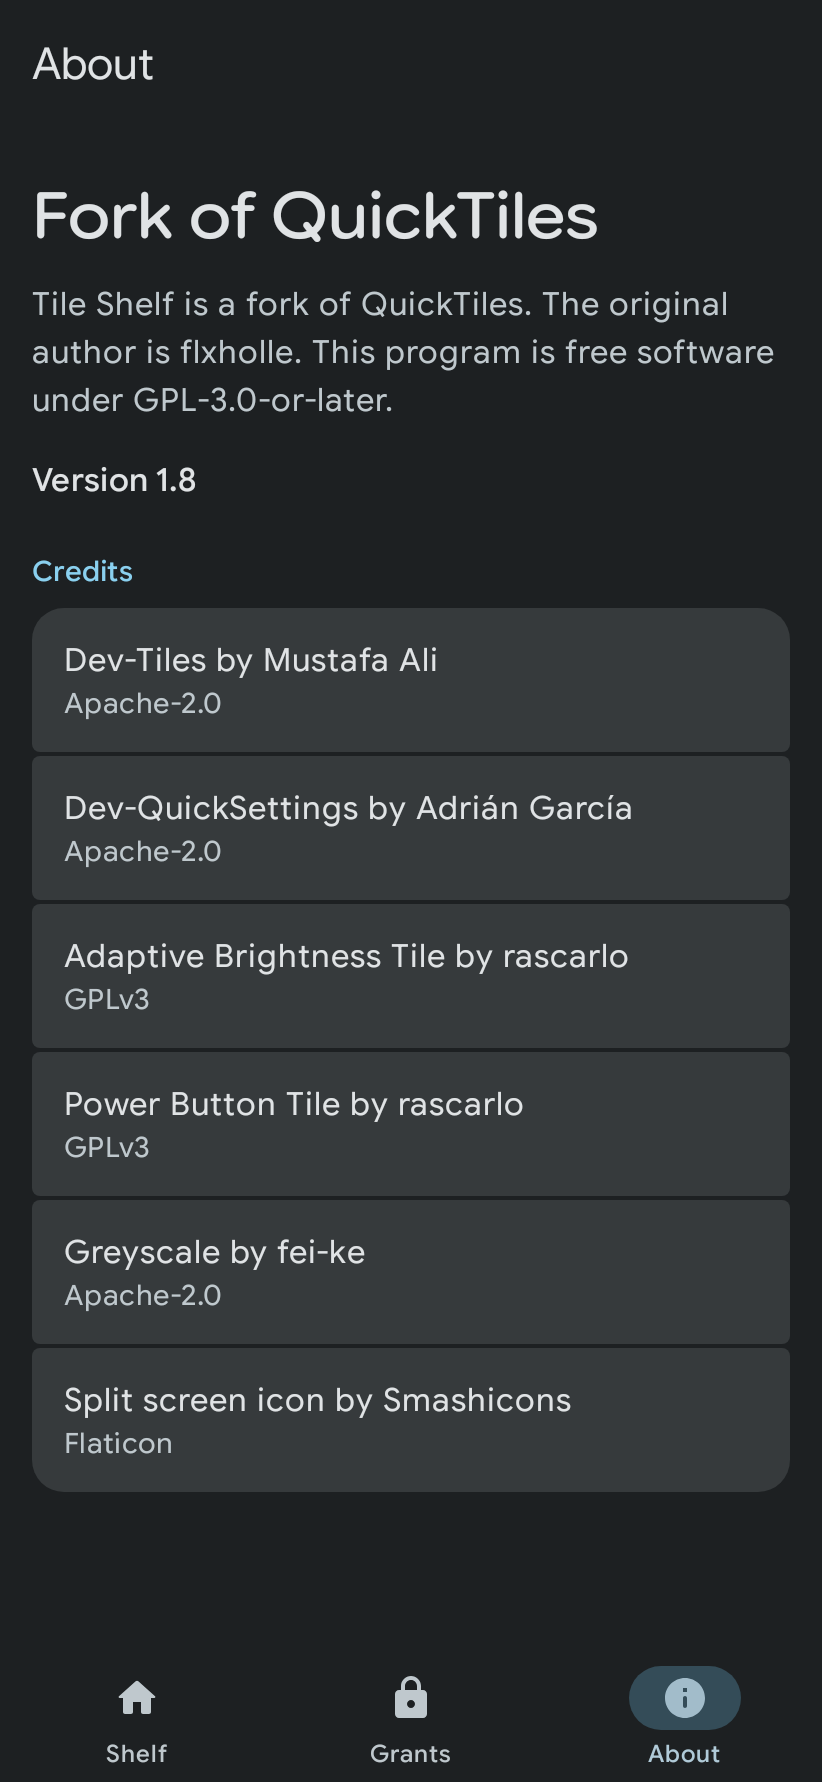
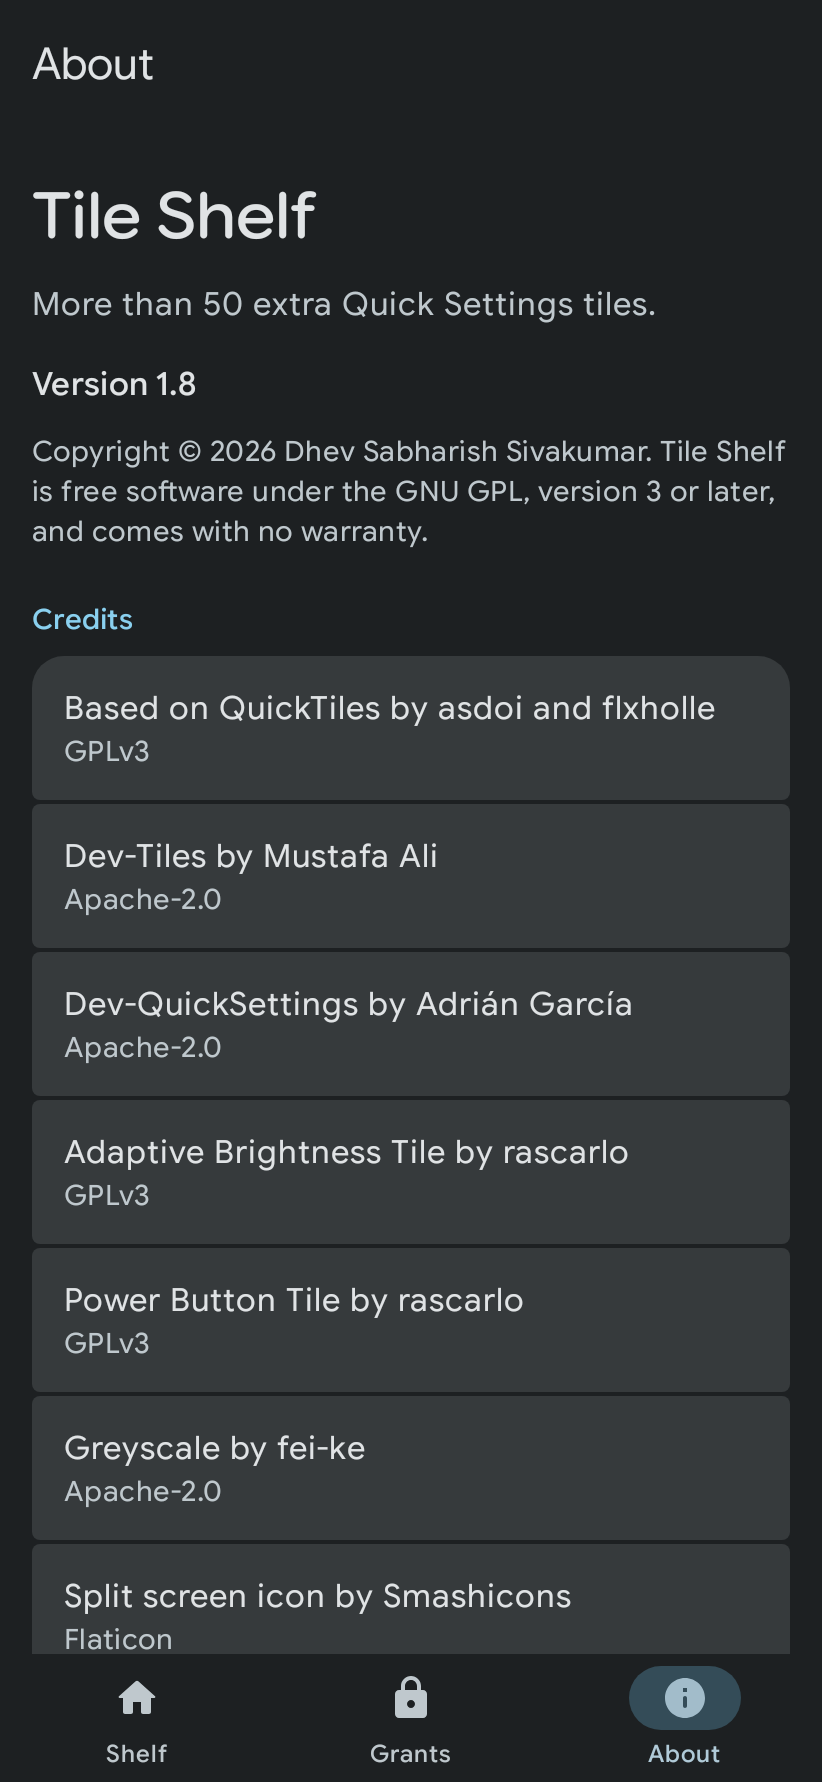
Lead the README and About screen with Tile Shelf, credit QuickTiles below
NOTICE records the copyright, the QuickTiles origin and what changed
from version 1.8. The About screen shows the copyright and GPL notice
and lists QuickTiles by asdoi and flxholle as the first credit.

Changed region(s): [[0.0304, 0.0926, 0.9732, 0.9259], [0.4866, 0.7099, 0.6387, 0.7407], [0.8516, 0.4012, 0.882, 0.4321]]

diff --git a/app/src/main/java/com/tileshelf/app/ui/AboutScreen.kt b/app/src/main/java/com/tileshelf/app/ui/AboutScreen.kt
@@ -39,6 +39,7 @@ fun AboutScreen(model: AboutModel, padding: PaddingValues, actions: ScreenAction
 private fun AboutReady(model: AboutModel.Ready, padding: PaddingValues) {
     val space = MaterialTheme.spacing
     val credits = listOf(
+        stringResource(R.string.credit_quicktiles) to stringResource(R.string.credit_gplv3),
         stringResource(R.string.credit_dev_tiles) to stringResource(R.string.credit_apache),
         stringResource(R.string.credit_dev_quicksettings) to stringResource(R.string.credit_apache),
         stringResource(R.string.credit_adaptive_brightness) to stringResource(R.string.credit_gplv3),
@@ -57,11 +58,11 @@ private fun AboutReady(model: AboutModel.Ready, padding: PaddingValues) {
     ) {
         item {
             Text(
-                stringResource(R.string.about_fork_title),
+                stringResource(R.string.app_name),
                 style = MaterialTheme.typography.headlineLargeEmphasized,
             )
             Text(
-                stringResource(R.string.about_fork_body),
+                stringResource(R.string.about_tagline),
                 style = MaterialTheme.typography.bodyLarge,
                 color = MaterialTheme.colorScheme.onSurfaceVariant,
                 modifier = Modifier.padding(top = space.space150),
@@ -69,7 +70,13 @@ private fun AboutReady(model: AboutModel.Ready, padding: PaddingValues) {
             Text(
                 stringResource(R.string.about_version, model.versionName),
                 style = MaterialTheme.typography.titleMedium,
-                modifier = Modifier.padding(top = space.space200, bottom = space.space300),
+                modifier = Modifier.padding(top = space.space200),
+            )
+            Text(
+                stringResource(R.string.about_legal),
+                style = MaterialTheme.typography.bodyMedium,
+                color = MaterialTheme.colorScheme.onSurfaceVariant,
+                modifier = Modifier.padding(top = space.space150, bottom = space.space300),
             )
             Text(
                 stringResource(R.string.credits),

diff --git a/README.md b/README.md
@@ -1,30 +1,21 @@
 # Tile Shelf
 
-Tile Shelf is a fork of [QuickTiles](https://gitlab.com/flxholle/quick-tiles) by flxholle, based on version 1.8 (versionCode 18, `com.asdoi.quicktiles`). Most of the tile code is theirs and the full upstream history is kept in this repository. This fork adds quick settings tiles on Android and installs beside the original app. The launcher name is Tile Shelf. The application id is `com.tileshelf.app`. There are no ads, no analytics, and no advertising id.
+More than 50 extra Quick Settings tiles for Android 7 and later: media controls, shortcuts to settings pages, screen and sound toggles, developer switches, and a tile that clears the clipboard.
 
-This is not the official QuickTiles app and is not affiliated with its author. This program is free software under GPL-3.0-or-later. See `LICENSE`.
+<p>
+<img src="app/screenshots/matrix/light/shelf.png" alt="The tile shelf in light theme" width="260">
+<img src="app/screenshots/matrix/dark/shelf.png" alt="The tile shelf in dark theme" width="260">
+</p>
 
-The screens use Material 3 Expressive (`androidx.compose.material3:material3:1.5.0-beta02`). The new tile in this version is Clear clipboard. A caffeine tile, a sync tile, and home-screen widgets are not in this version.
+Tile Shelf has no ads, no analytics and no advertising id. It does not use root.
 
-## Build
+## Adding a tile
 
-You need JDK 21 and Android SDK platform 37.
-
-`compileSdk` is 37 because `androidx.compose.material3:material3:1.5.0-beta02` and the Compose 1.12 libraries it pulls require compileSdk 37. `checkDebugAarMetadata` fails on compileSdk 36. `targetSdk` stays 36. `minSdk` stays 24, so the debug APK still installs on Android 15, including a OnePlus 13R.
-
-```sh
-./gradlew :app:assembleDebug
-./gradlew :app:testDebugUnitTest
-./gradlew :app:recordRoborazziDebug
-```
-
-The debug APK is `app/build/outputs/apk/debug/app-debug.apk`. Roborazzi writes `app/screenshots/matrix/`.
-
-Turning a tile on in the app publishes it to the quick settings editor. On Android 13 and later the system then asks whether to add the tile to quick settings, and the choice is yours. On older versions, add it from the quick settings editor yourself. The app never places a tile without that confirmation.
+Turn a tile on in Tile Shelf and it appears in the Quick Settings editor. On Android 13 and later the system then asks whether to add the tile to Quick Settings, and you choose. On older versions, add it from the Quick Settings editor yourself. Tile Shelf never places a tile without your confirmation.
 
 ## Tiles
 
-Tiles with no extra grant need nothing beyond the app. Clear clipboard is one of those. It calls `ClipboardManager.clearPrimaryClip()` from the tile service on API 28 and above. On older APIs, and if that call throws, it sets an empty clip. The tile shows "Clipboard cleared" on its subtitle, or on its label below API 29. Keyboard clipboard histories, including Gboard and the OnePlus and Samsung keyboards, keep their own copies. An app cannot clear those.
+Most tiles need nothing beyond the app. Some change system settings and need a one-time permission, and a few need a permission that only adb can grant. Tile Shelf shows what each tile needs and walks you through it.
 
 | Tile | Grant |
 | --- | --- |
@@ -43,37 +34,41 @@ Tiles with no extra grant need nothing beyond the app. Clear clipboard is one of
 | Grayscale | adb `WRITE_SECURE_SETTINGS`. The row is hidden from API 30 up unless it was already on, in which case you can only turn it off. |
 | Show taps | Not offered. A stored on value can only be turned off. Writing `show_touches` throws on this targetSdk. |
 
-The adb form is:
+To grant the adb permissions, connect the phone with USB debugging on and run:
 
 ```sh
 adb shell pm grant com.tileshelf.app android.permission.WRITE_SECURE_SETTINGS
 adb shell pm grant com.tileshelf.app android.permission.DUMP
 ```
 
-The upstream wireless USB debugging tile needs root. This fork does not include it and does not request root.
+Clear clipboard calls `ClipboardManager.clearPrimaryClip()` from the tile service on API 28 and above. On older APIs, and if that call throws, it sets an empty clip. Keyboard clipboard histories, including Gboard and the OnePlus and Samsung keyboards, keep their own copies, and an app cannot clear those.
 
 ## Limits
 
-Publishing a tile does not add it to the shade by itself. If you decline the add prompt, or you are on Android 12 or older, add it from the quick settings editor. Android may stop showing the prompt for a tile you have declined several times.
-
-Clear clipboard does not clear keyboard clipboard history.
+Turning a tile on does not add it to Quick Settings by itself. If you decline the add prompt, or you are on Android 12 or older, add it from the Quick Settings editor. Android may stop showing the prompt for a tile you have declined several times.
 
 Turning a tile off does not undo the system setting that tile last wrote.
 
 A failed grant leaves the switch off. Grant the permission, then turn the tile on again.
 
-## Next step
+## Build
 
-Add a caffeine keep-screen-awake tile with a foreground service, and note how OnePlus battery optimisation treats that service. That tile is deferred from this version.
+You need JDK 21 and Android SDK platform 37.
 
-## Credits
+```sh
+./gradlew :app:assembleDebug
+./gradlew :app:testDebugUnitTest
+./gradlew :app:recordRoborazziDebug
+```
 
-Icons. The app icon is original to this fork. The split-screen icon is by Smashicons on Flaticon. The upstream README also credits a later icon to DALL-E 3.
+The debug APK is `app/build/outputs/apk/debug/app-debug.apk`. Roborazzi writes the screenshot matrix to `app/screenshots/matrix/`.
 
-Code used by the original project:
+`compileSdk` is 37 because Material 3 Expressive (`androidx.compose.material3:material3:1.5.0-beta02`) and the Compose 1.12 libraries it pulls in require it. `targetSdk` is 36 and `minSdk` is 24.
 
-- Dev-Tiles by Mustafa Ali, Apache-2.0
-- Dev-QuickSettings by Adrián García, Apache-2.0
-- Adaptive Brightness Tile by rascarlo, GPL-3.0
-- PowerButtonTile by rascarlo, GPL-3.0
-- Greyscale by fei-ke, Apache-2.0
+## Credits and license
+
+Tile Shelf is based on [QuickTiles](https://gitlab.com/flxholle/quick-tiles) 1.8, written by asdoi and maintained by flxholle (Felix Hollederer), with help from its contributors. Most of the tile services come from QuickTiles, and its full history is kept in this repository. Tile Shelf is not the official QuickTiles app and is not affiliated with its authors.
+
+QuickTiles in turn used code from Dev-Tiles by Mustafa Ali (Apache-2.0), Dev-QuickSettings by Adrián García (Apache-2.0), Adaptive Brightness Tile and PowerButtonTile by rascarlo (GPL-3.0), and Greyscale by fei-ke (Apache-2.0). Files from those projects keep their own license headers. The split-screen icon is by Smashicons from Flaticon.
+
+Tile Shelf is free software under the GNU General Public License, version 3 or later. See `LICENSE` for the license and `NOTICE` for what changed from QuickTiles.
